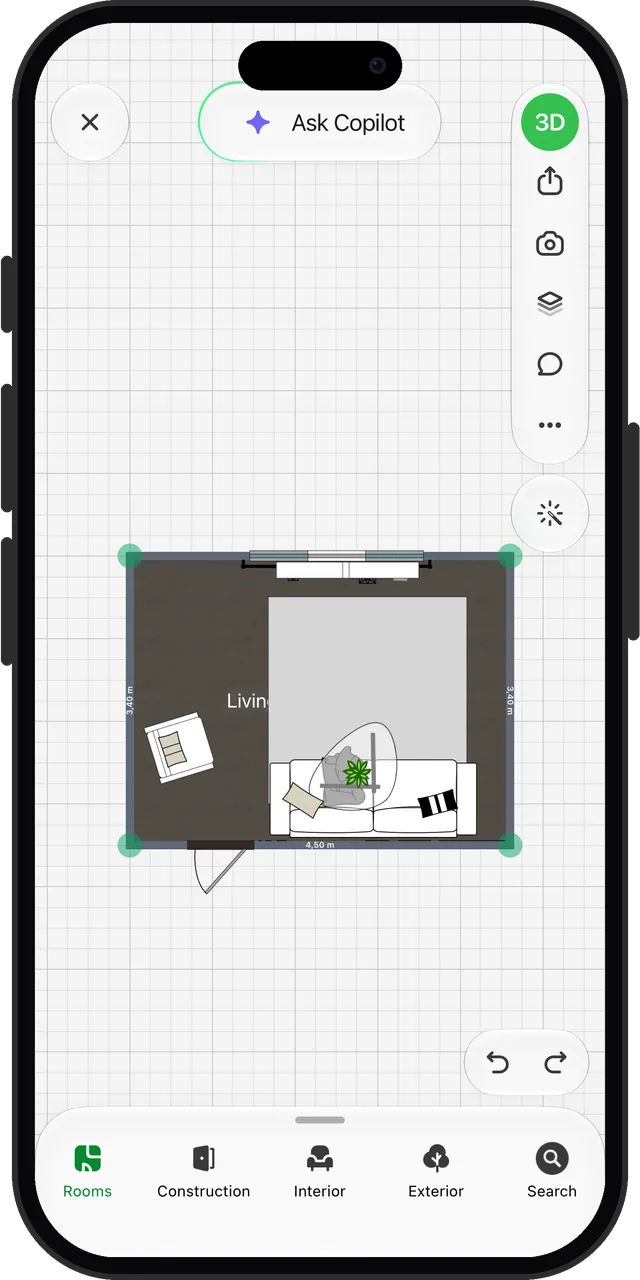
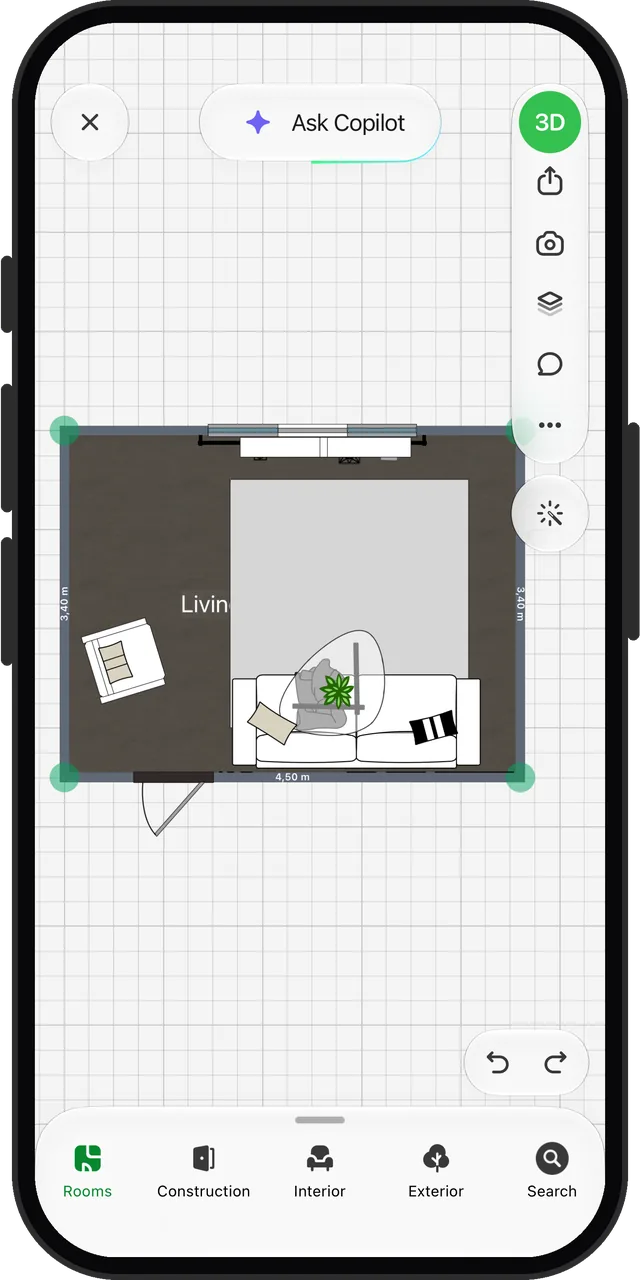
Planner 5D re-shot zoomed in, its Ask Copilot button ringed and noted
- plan/fit v3: the same Smart-wizard room, zoomed in by hand on the phone
  (its canvas ignores the driver's pinch), table moved back to the rug
  for the plan shot.
- frame_compare.py gains HIGHLIGHTS (an amber ring, the compare tables'
  warn colour) and NO_ISLAND: on the notched test phone the editor's
  Ask Copilot button sits where a drawn island would cover it.
- The plan row's caption and the TESTED list say what the ring shows:
  the button floats over the plan at about 40% of the screen's width.

diff --git a/compare/scooch-vs-planner-5d/index.html b/compare/scooch-vs-planner-5d/index.html
@@ -233,10 +233,10 @@
   </div>
   <div class="sbs-row">
     <h3>A room with furniture</h3>
-    <p>A 4.50 by 3.40 m living room furnished by Planner 5D&#x27;s Smart wizard, the size of ours.</p>
+    <p>A 4.50 by 3.40 m living room furnished by Planner 5D&#x27;s Smart wizard, the size of ours. Ringed: its Ask Copilot button, floating over the top of the plan at about 40% of the screen&#x27;s width.</p>
     <div class="sbs-pair">
     <figure>
-  <img class="screen" src="/assets/compare/planner-5d-plan.webp?v=cc3c6854" alt="A 4.50 by 3.40 m living room furnished by Planner 5D&#x27;s Smart wizard, the size of ours" loading="lazy" width="640" height="1280">
+  <img class="screen" src="/assets/compare/planner-5d-plan.webp?v=0b32de56" alt="A 4.50 by 3.40 m living room furnished by Planner 5D&#x27;s Smart wizard, the size of ours. Ringed: its Ask Copilot button, floating over the top of the plan at about 40% of the screen&#x27;s width" loading="lazy" width="640" height="1280">
   <figcaption>Planner 5D 5.13.1 · 23 Oct 2026</figcaption>
 </figure>
     <figure>
@@ -264,7 +264,7 @@
     <p>The same room with the coffee table moved onto the sofa: nothing flagged.</p>
     <div class="sbs-pair">
     <figure>
-  <img class="screen" src="/assets/compare/planner-5d-fit.webp?v=9cf9f39a" alt="The same room with the coffee table moved onto the sofa: nothing flagged" loading="lazy" width="640" height="1280">
+  <img class="screen" src="/assets/compare/planner-5d-fit.webp?v=2186af3f" alt="The same room with the coffee table moved onto the sofa: nothing flagged" loading="lazy" width="640" height="1280">
   <figcaption>Planner 5D 5.13.1 · 23 Oct 2026</figcaption>
 </figure>
     <figure>
@@ -307,6 +307,7 @@
         <li>Then its paywall: a 7-day free trial, then a yearly plan. Closing it brought up a one-time offer of 80% off the first year, gone once closed.</li>
         <li>On the free tier, about half the straight sofas in its catalogue carried a padlock.</li>
         <li>Its Smart wizard furnished a 4.50 by 3.40 m living room for us, the size of the one in our own screenshots. We moved its coffee table onto the sofa. Nothing was flagged.</li>
+        <li>A large &#x27;Ask Copilot&#x27; button floats over the top of the plan the whole time, about 40% of the screen&#x27;s width.</li>
   </ul>
   <h2 class="app-title"><img class="app-icon" src="/assets/compare/icons/scooch.webp?v=f9cc9d9f" alt="" width="32" height="32" loading="lazy"><span>What Scooch does not do</span></h2>
   <ul>

diff --git a/compare/index.html b/compare/index.html
@@ -361,7 +361,7 @@
   <p>A 2D and 3D home design app with over 8,400 furniture and decor items with premium, photo-like renders, AI design and 3D capture with the phone&#x27;s camera. It asks for an account before the first room, then offers a free trial of a yearly plan; the free tier locks about half the sofas.</p>
   <div class="app-card-body with-shot">
   <figure>
-  <img class="screen" src="/assets/compare/planner-5d-plan.webp?v=cc3c6854" alt="A 4.50 by 3.40 m living room furnished by Planner 5D&#x27;s Smart wizard, the size of ours" loading="lazy" width="640" height="1280">
+  <img class="screen" src="/assets/compare/planner-5d-plan.webp?v=0b32de56" alt="A 4.50 by 3.40 m living room furnished by Planner 5D&#x27;s Smart wizard, the size of ours. Ringed: its Ask Copilot button, floating over the top of the plan at about 40% of the screen&#x27;s width" loading="lazy" width="640" height="1280">
   <figcaption>Planner 5D 5.13.1 · 23 Oct 2026</figcaption>
 </figure>
   <div class="card-side">

diff --git a/_gen/frame_compare.py b/_gen/frame_compare.py
@@ -33,9 +33,10 @@ SHOTS = {
     "home-design-3d-catalogue": "home-design-3d-catalogue.png",
     "home-design-3d-fit": "home-design-3d-overlap-v2.png",
     "planner-5d-wall": "planner-5d-wall.png",
-    "planner-5d-plan": "planner-5d-plan-v2.png",
+    # v3: zoomed in by hand on the phone (its canvas ignores the driver's pinch), Emil 2026-10-23.
+    "planner-5d-plan": "planner-5d-plan-v3.png",
     "planner-5d-catalogue": "planner-5d-catalogue.png",
-    "planner-5d-fit": "planner-5d-overlap-v2.png",
+    "planner-5d-fit": "planner-5d-overlap-v3.png",
     "planner-5d-paywall": "planner-5d-paywall.png",
     "planner-5d-offer": "planner-5d-exit-offer.png",
     "magicplan-wall": "magicplan-wall.png",
@@ -75,6 +76,23 @@ OURS = {
 
 MASKS = {}
 
+# HIGHLIGHTS ring a point the row's caption makes, in the warn amber of the compare tables: (x0, y0, x1, y1)
+# fractions of the upright raw. Planner 5D's "Ask Copilot" button is 175 x 56 pt of a 414 pt wide editor
+# (Emil, 2026-10-23: call it out).
+HIGHLIGHTS = {"planner-5d-plan": [(0.270, 0.040, 0.731, 0.121)]}
+
+
+NO_ISLAND = {"planner-5d-plan", "planner-5d-fit"}
+
+
+def apply_highlights(img, name):
+    W, H = img.size
+    d = ImageDraw.Draw(img)
+    for x0, y0, x1, y1 in HIGHLIGHTS.get(name, []):
+        box = [x0 * W, y0 * H, x1 * W, y1 * H]
+        d.rounded_rectangle(box, radius=(box[3] - box[1]) / 2, outline=(242, 185, 75, 255), width=round(W * 0.009))
+    return img
+
 
 def apply_masks(img, name):
     W, H = img.size
@@ -98,7 +116,7 @@ def add_island(img):
 
 def frame(src, name, camera=False):
     img = Image.open(src).convert("RGBA")
-    img = apply_masks(img, name)
+    img = apply_highlights(apply_masks(img, name), name)
     if img.width > img.height:
         img = img.rotate(-90, expand=True)
     if camera:
@@ -116,7 +134,9 @@ if __name__ == "__main__":
         # The same phone as ours, Dynamic Island included (the test iPhone has a notch, which leaves
         # the top centre of its status bar empty, and the left edge of a landscape screen). Not on the
         # black stand-in: add_camera finds no island edge on black and puts the lens in the corner.
-        frame(os.path.join(RAW, raw), name, camera=not name.startswith("drawplan"))
+        # Nor where the app's own controls sit in the top 48 pt: on the notched test phone Planner 5D's editor
+        # puts Ask Copilot where an island would cover it.
+        frame(os.path.join(RAW, raw), name, camera=not name.startswith("drawplan") and name not in NO_ISLAND)
     for name, raw in OURS.items():
         src = os.path.join(RAW, raw)
         if os.path.isfile(src):

diff --git a/_gen/compare_data.py b/_gen/compare_data.py
@@ -320,7 +320,7 @@ THEIR_SHOTS = {
     },
     "planner-5d": {
         "wall": "Planner 5D on first launch: create an account to save all your projects, with no way past it",
-        "plan": "A 4.50 by 3.40 m living room furnished by Planner 5D's Smart wizard, the size of ours",
+        "plan": "A 4.50 by 3.40 m living room furnished by Planner 5D's Smart wizard, the size of ours. Ringed: its Ask Copilot button, floating over the top of the plan at about 40% of the screen's width",
         "catalogue": "Planner 5D's straight sofas on the free tier, about half of them behind a padlock",
         "fit": "The same room with the coffee table moved onto the sofa: nothing flagged",
         "paywall": "Planner 5D's paywall after setup: a 7-day free trial, then a yearly plan",
@@ -384,6 +384,7 @@ TESTED = {
         "Then its paywall: a 7-day free trial, then a yearly plan. Closing it brought up a one-time offer of 80% off the first year, gone once closed.",
         "On the free tier, about half the straight sofas in its catalogue carried a padlock.",
         "Its Smart wizard furnished a 4.50 by 3.40 m living room for us, the size of the one in our own screenshots. We moved its coffee table onto the sofa. Nothing was flagged.",
+        "A large 'Ask Copilot' button floats over the top of the plan the whole time, about 40% of the screen's width.",
     ],
     "magicplan": [
         "Its first screen asks whether you already have an account. As a new user we were offered the free Starter plan, all features for up to 2 projects, after a sign-up.",
